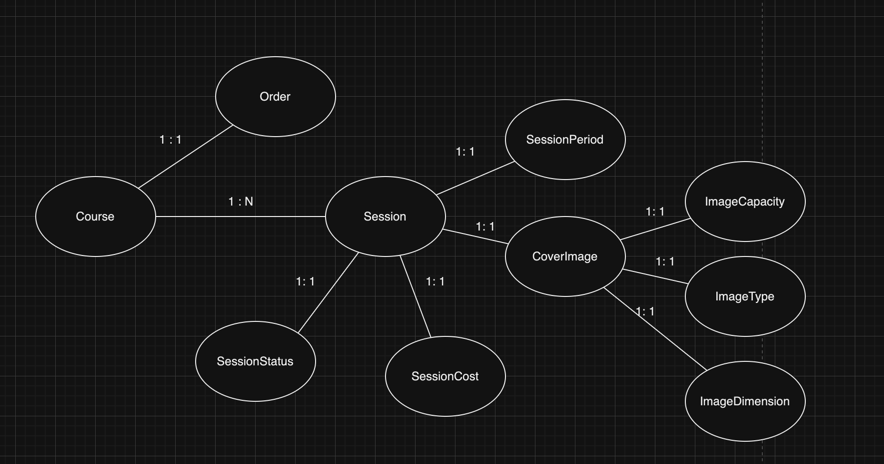
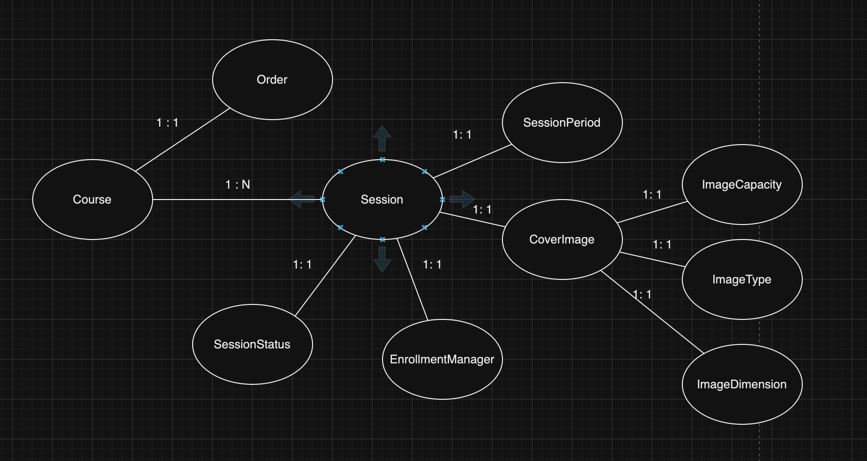
docs : 도메인 모델링 그래프 수정 및 수강신청 내부 도메인간 협력 그래프 추가

diff --git a/src/main/java/nextstep/qna/Todo.md b/src/main/java/nextstep/qna/Todo.md
@@ -19,7 +19,11 @@
 
 ## Todo
 
+### 도메인 모델링
 ![img.png](image/img.png)
+
+### 수강신청 내부 도메인간의 협력
+![img_1.png](image/img_1.png)
 
 ### Course > Order
 - [ ] 하나의 Course는 기수단위로 운영된다.
@@ -33,7 +37,7 @@
 ### Session > CoverImage > ImageDimension 
 - [ ] 이미지의 width는 300픽셀, height는 200픽셀 이상이어야 하며, width와 height의 비율은 3:2여야 한다.
 
-### Session > SessionCost
+### Session > EnrollmentManager
 - [ ] 무료 강의는 최대 수강 인원 제한이 없다.
 - [ ] 유료 강의는 강의 최대 수강 인원을 초과할 수 없다.
 - [ ] 유료 강의는 수강생이 결제한 금액과 수강료가 일치할 때 수강 신청이 가능하다.
